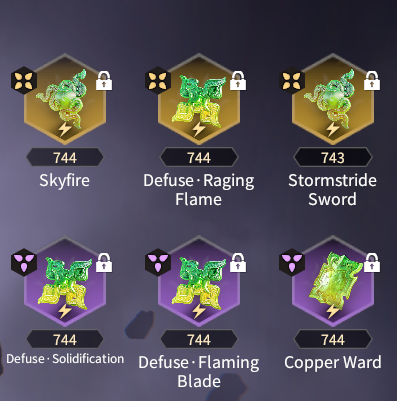
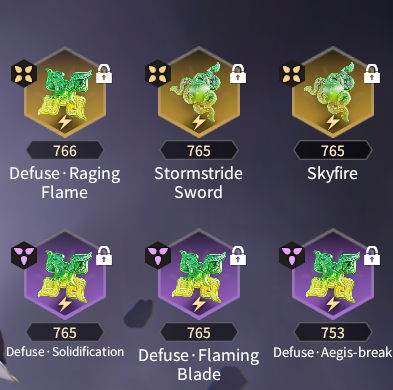
Updated Skyfire Storm Build

diff --git a/build.html b/build.html
@@ -129,7 +129,7 @@
 					</tr>
 					<tr>
 						<td>
-							<img src="img/builds/fire/skyfirestorm.png" alt="Skyfire, Defuse • Raging Flames, Stormstride Sword, Defuse • Solidification, Defuse • Flaming Blade, & Copper Ward" class="portrait">
+							<img src="img/builds/fire/skyfirestorm.png" alt="Skyfire, Defuse • Raging Flames, Stormstride Sword, Defuse • Solidification, Defuse • Flaming Blade, & Defuse • Aegis-Break" class="portrait">
 							<p class="caption label">Potential Plans:
 								<br><a href="build.html?option=3#Blazing Flame">Blazing Flame</a>
 								<br><br>Target Attributes:
@@ -138,11 +138,11 @@
 						</td>
 						<td>
 							<p class="label">Difficulty:</p> 
-								<!-- 4-Stars -->
+								<!-- 3-Stars -->
 								<img src="img/site/filledstar.png" alt="Filled Difficulty Star" class="icon">
 								<img src="img/site/filledstar.png" alt="Filled Difficulty Star" class="icon">
 								<img src="img/site/filledstar.png" alt="Filled Difficulty Star" class="icon">
-								<img src="img/site/filledstar.png" alt="Filled Difficulty Star" class="icon">
+								<img src="img/site/unfilledstar.png" alt="Unfilled Difficulty Star" class="icon">
 								<img src="img/site/unfilledstar.png" alt="Unfilled Difficulty Star" class="icon">
 							<p class="label">Strengths:</p>
 								<ul class="left square">
@@ -152,7 +152,7 @@
 								</ul>
 							<p class="label">Weaknesses:</p>
 								<ul class="left square">
-									<li>Requires semi-constant <a href="intro.html?option=3#defuse">Defuses</a> to maintain power</li>
+									<li>Requires constant <a href="intro.html?option=3#defuse">Defuses</a> to maintain power</li>
 									<li>Heroes with Defuse • Solve (unreliable <a href="intro.html?option=3#defuse">defuses</a>)</li>
 									<li>Wastes Burn damage if you reapply the same Burn before it expires</li>
 								</ul>
